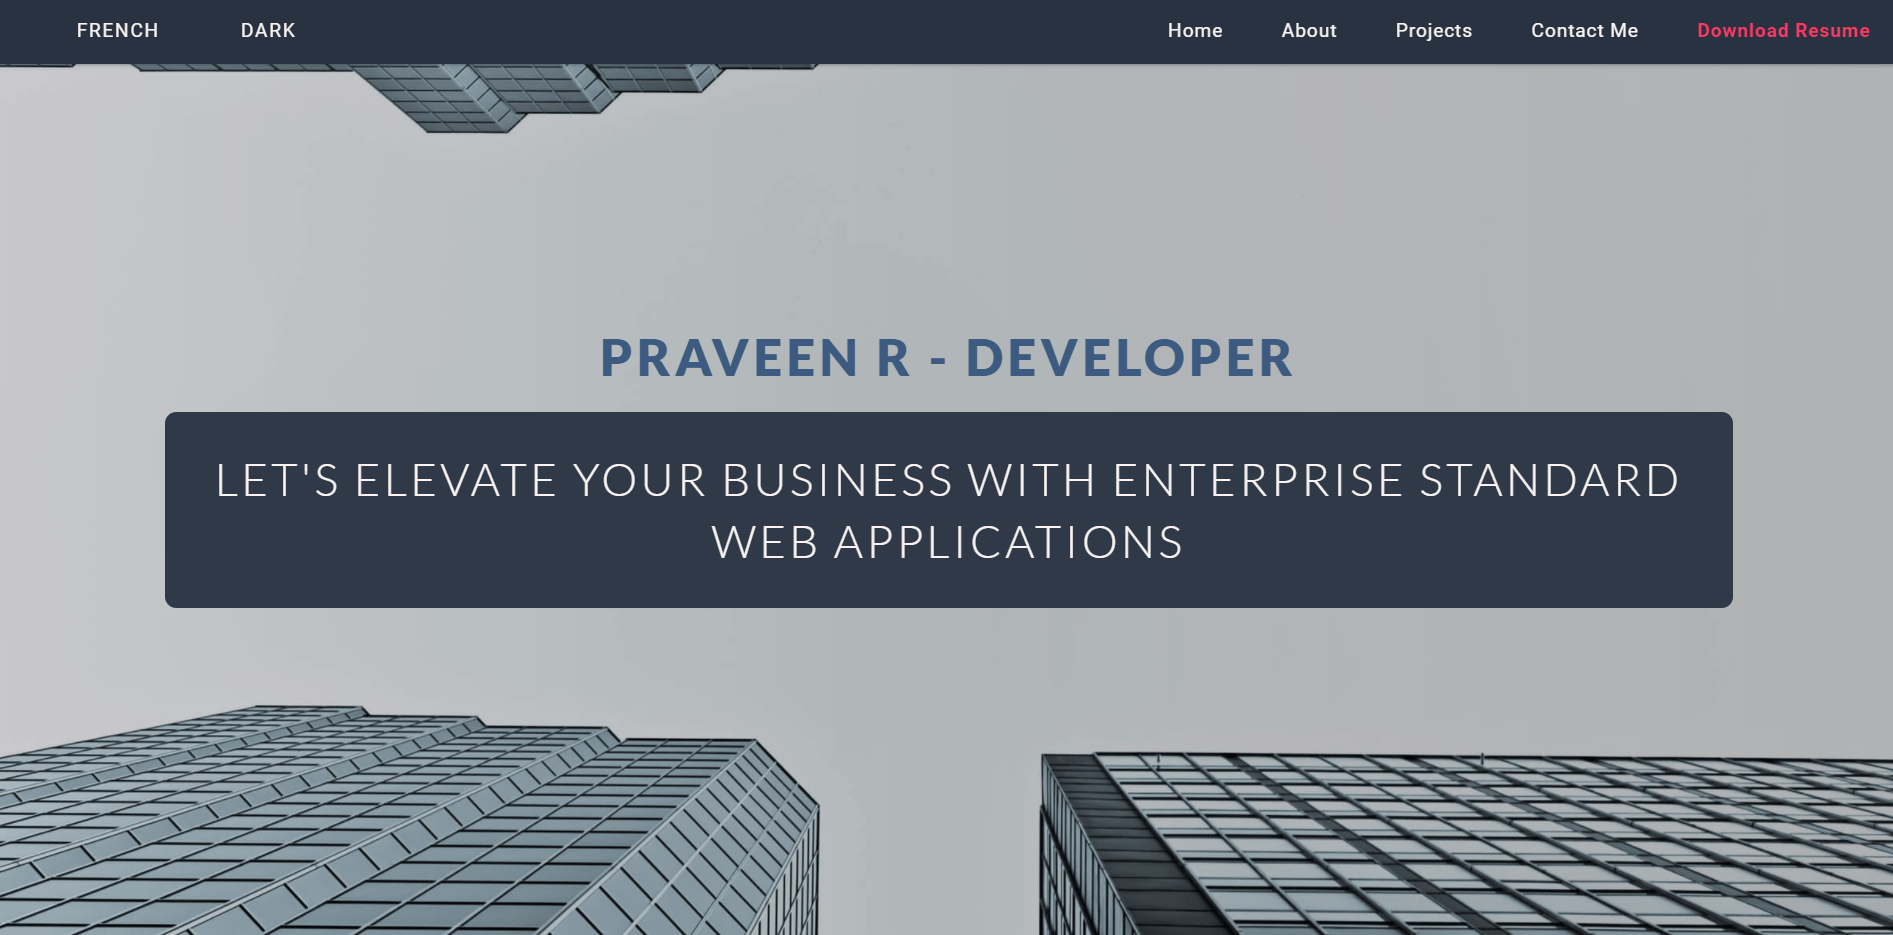
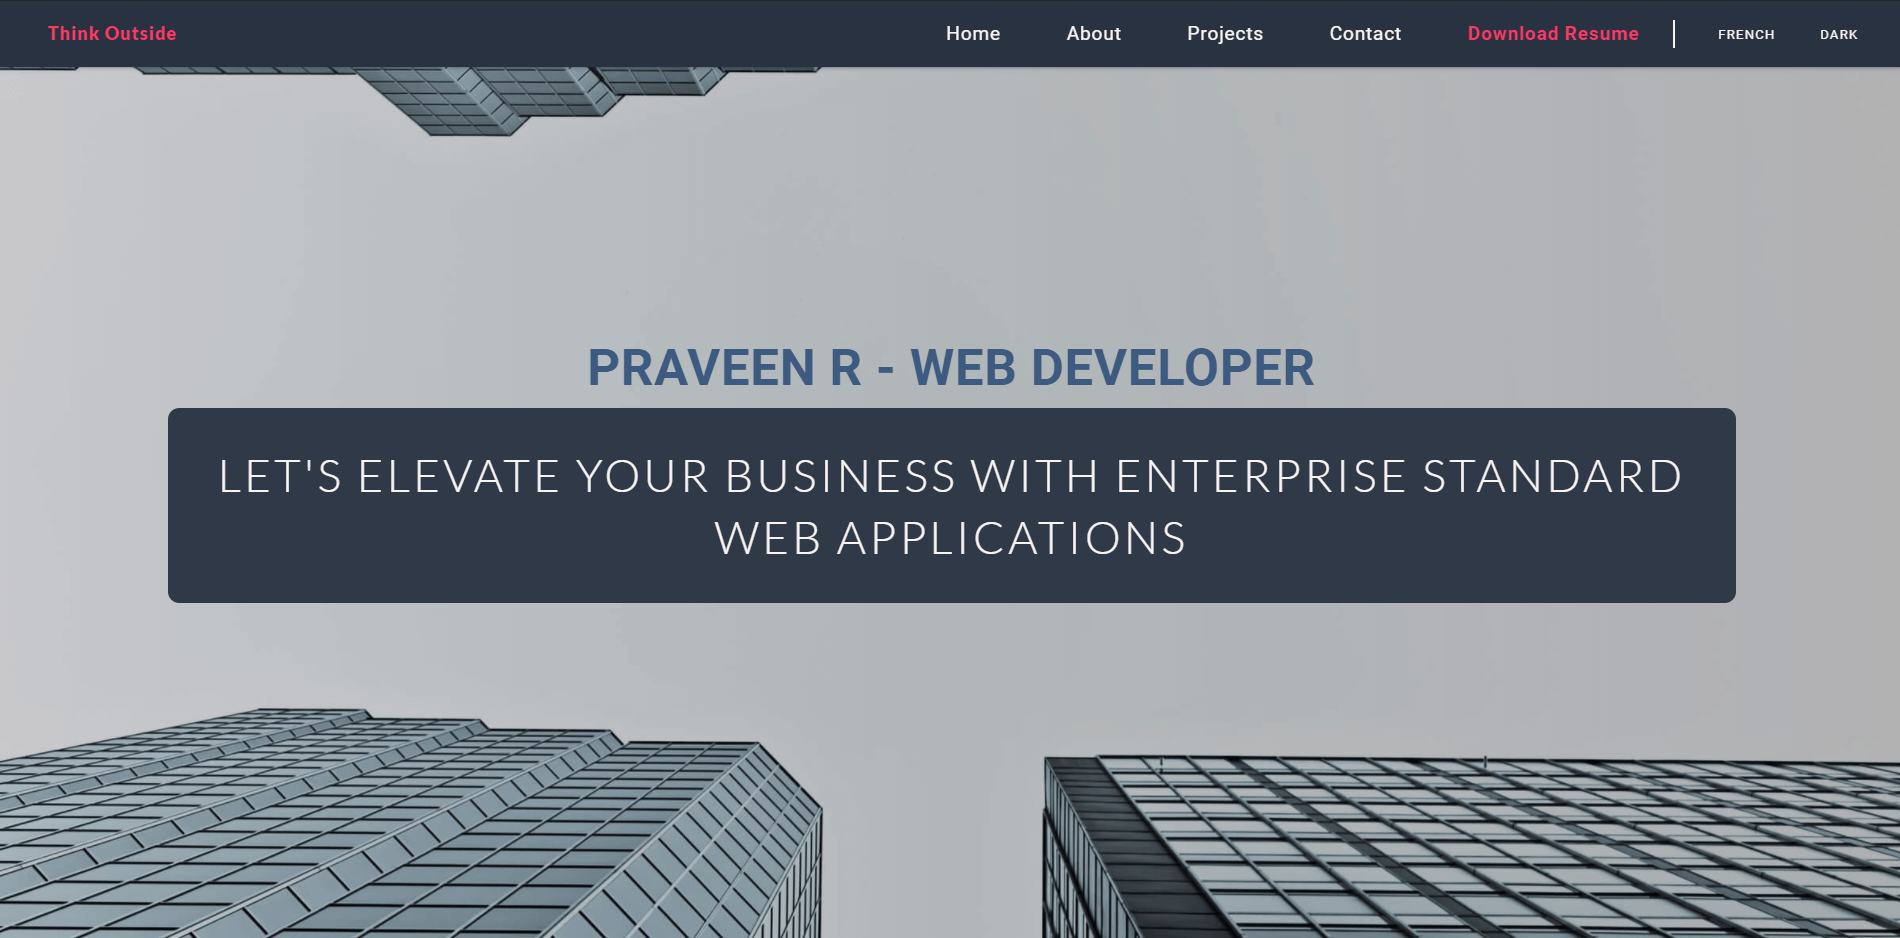
html outline changes

diff --git a/src/Components/Title.js b/src/Components/Title.js
@@ -26,13 +26,13 @@ const IntroTitle = styled.h2`
 	}
 `
 
-const NameTitle = styled.h1`
+const NameTitle = styled.h2`
 	font-family: 'Roboto', sans-serif;
 	font-weight: ${(props) => props.theme.fontWeight.strong};
 	text-transform: uppercase;
 	font-size: ${(props) => props.theme.fontSize.small};
 	color: ${(props) => props.theme.alt};
-	letter-spacing: ${(props) => props.theme.spacing.regular};
+	letter-spacing: ${(props) => props.theme.spacing.xxSmall};
 
 	@media (min-width: ${DEVICES.OLD_PHONE}) {
 		font-size: ${(props) => props.theme.fontSize.mid};
@@ -42,7 +42,7 @@ const NameTitle = styled.h1`
 	}
 	@media (min-width: ${DEVICES.TABLET}) {
 		font-size: ${(props) => props.theme.fontSize.xlarge};
-		letter-spacing: ${(props) => props.theme.spacing.large};
+		letter-spacing: ${(props) => props.theme.spacing.xxSmall};
 	}
 	@media (min-width: ${DEVICES.LAPTOP}) {
 		font-size: ${(props) => props.theme.fontSize.xxLarge};
@@ -56,7 +56,7 @@ const JobTitle = styled.h2`
 	font-weight: 300;
 	letter-spacing: ${(props) => props.theme.spacing.xSmall};
 `
-const Slogan = styled.h2`
+const Slogan = styled.p`
 	font-weight: 300;
 	color: ${(props) => props.theme.light};
 	font-size: ${(props) => props.theme.fontSize.xxSmall};

diff --git a/src/Components/Navigation.js b/src/Components/Navigation.js
@@ -96,13 +96,25 @@ const Logo = styled.h1`
 		color: ${(props) => props.theme.primaryMix};
 	}
 	@media (min-width: ${DEVICES.TABLET}) {
-		font-size: ${(props) => props.theme.fontSize.xSmall};
+		font-size: ${(props) => props.theme.fontSize.lSmall};
+		display: none;
 	}
 	@media (min-width: ${DEVICES.LAPTOP}) {
 		font-size: ${(props) => props.theme.fontSize.lSmall};
+		display: block;
 	}
 	@media (min-width: ${DEVICES.LARGE_SCREEN}) {
 		font-size: ${(props) => props.theme.fontSize.small};
+	}
+`
+
+const LogoSmall = styled(Logo)`
+	display: none;
+	@media (min-width: ${DEVICES.TABLET}) {
+		display: block;
+	}
+	@media (min-width: ${DEVICES.LAPTOP}) {
+		display: none;
 	}
 `
 
@@ -143,9 +155,8 @@ const Navigation = function ({ lang, theme, allRefs, toggleLanguage, toggleTheme
 		<Nav>
 			<LogoWrapper>
 				<Link to={NAV_PAGES.HOME}>
-					<Logo>
-						Think <br /> Outside
-					</Logo>
+					<Logo>Think Outside</Logo>
+					<LogoSmall>TO</LogoSmall>
 				</Link>
 			</LogoWrapper>
 			<NavLinks isSmall={lang === LANG.FR}>

diff --git a/src/Components/Container.js b/src/Components/Container.js
@@ -77,11 +77,8 @@ const NameAndSlogan = styled.div`
 
 const NameContainer = styled.div`
 	margin-bottom: 8px;
-	@media (min-width: ${DEVICES.TABLET}) {
-		margin-bottom: 12px;
-	}
 	@media (min-width: ${DEVICES.LAPTOP}) {
-		margin-bottom: 15px;
+		margin-bottom: 10px;
 	}
 `
 
